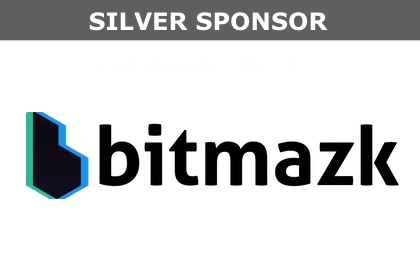
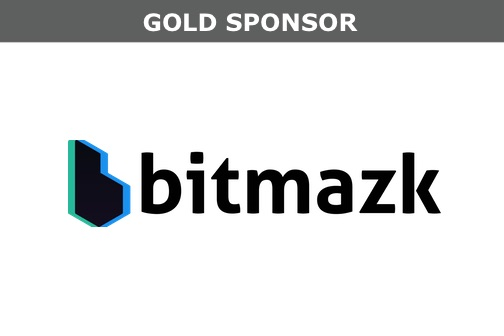
Added sponsors: Bitmazk, The Artling, Carousell

Changed region(s): [[0.0619, 0.4, 0.9595, 0.7143], [0.0, 0.0286, 1.0, 0.1714]]

diff --git a/pyconsg2/pyconsg2/templates/partials/sponsors.html b/pyconsg2/pyconsg2/templates/partials/sponsors.html
@@ -14,6 +14,11 @@
         <h1 class="text-center" style="margin-bottom:1em;">Platinum Sponsors:</h1>
         <a class="sponsor" href="http://corporate.garena.com" target="_blank"><img style="width:260px;" src="{% static "img/sponsor-garena.jpg" %}" alt="Platinum Sponsor: Garena"></a>
         <a class="sponsor" href="https://www.quantopian.com" target="_blank"><img style="width:260px;" src="{% static "img/sponsor-quantopian.jpg" %}" alt="Platinum Sponsor: - Quantopian"></a>
+        <h1 class="text-center" style="margin-bottom:1em;">Gold Sponsors:</h1>
+        <a class="sponsor" href="https://bitmazk.com/" target="_blank"><img style="width:210px;" src="{% static "img/sponsor-bitmazk.jpg" %}" alt="Gold Sponsor: Bitmazk"></a>
+        <h1 class="text-center" style="margin-bottom:1em;">Silver Sponsors:</h1>
+        <a class="sponsor" href="https://carousell.com/" target="_blank"><img style="width:210px;" src="{% static "img/sponsor-carousell.jpg" %}" alt="Silver Sponsor: Carousell"></a>
+        <a class="sponsor" href="https://theartling.com/" target="_blank"><img style="width:210px;" src="{% static "img/sponsor-theartling.jpg" %}" alt="Silver Sponsor: The Artling"></a>
         {% comment %}
         <a class="sponsor" href="https://www.neo.com" target="_blank"><img style="width:260px;" src="{% static "img/sponsor-neo.jpg" %}" alt="Platinum Sponsor: Neo"></a>
         <a class="sponsor" href="http://www.sp.edu.sg/wps/portal/vp-spws" target="_blank"><img style="width:260px;" src="{% static "img/sponsor-sp.jpg" %}" alt="Platinum Sponsor: Singapore Polytechnic"></a>
